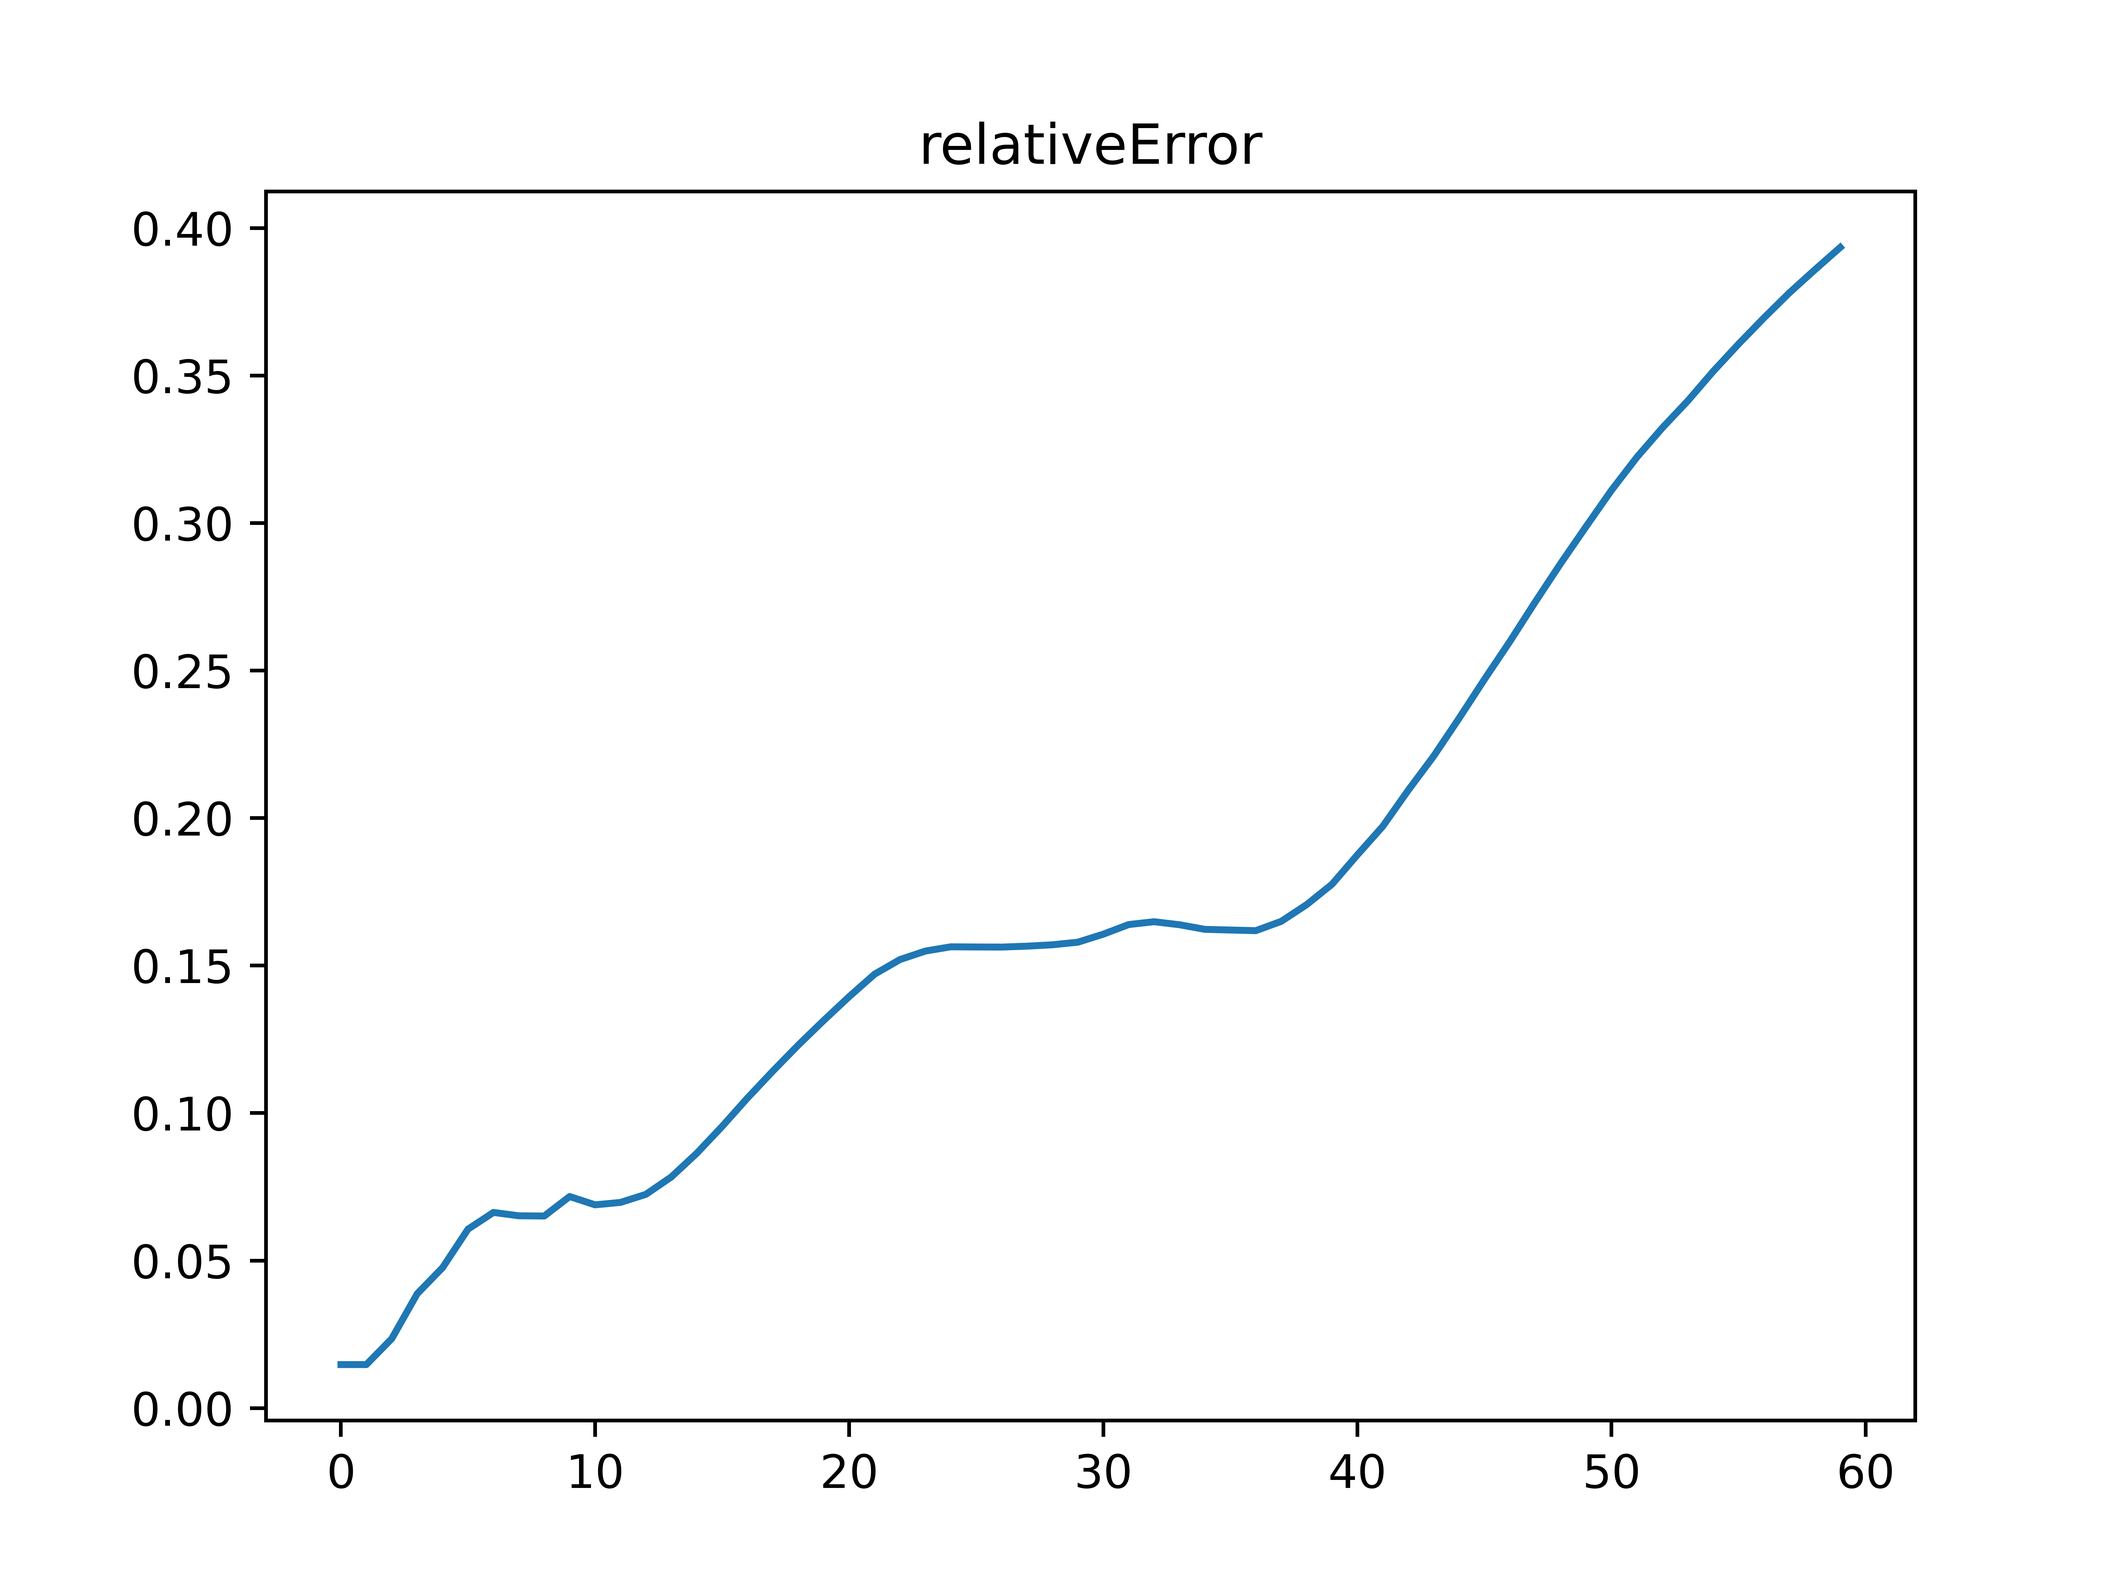
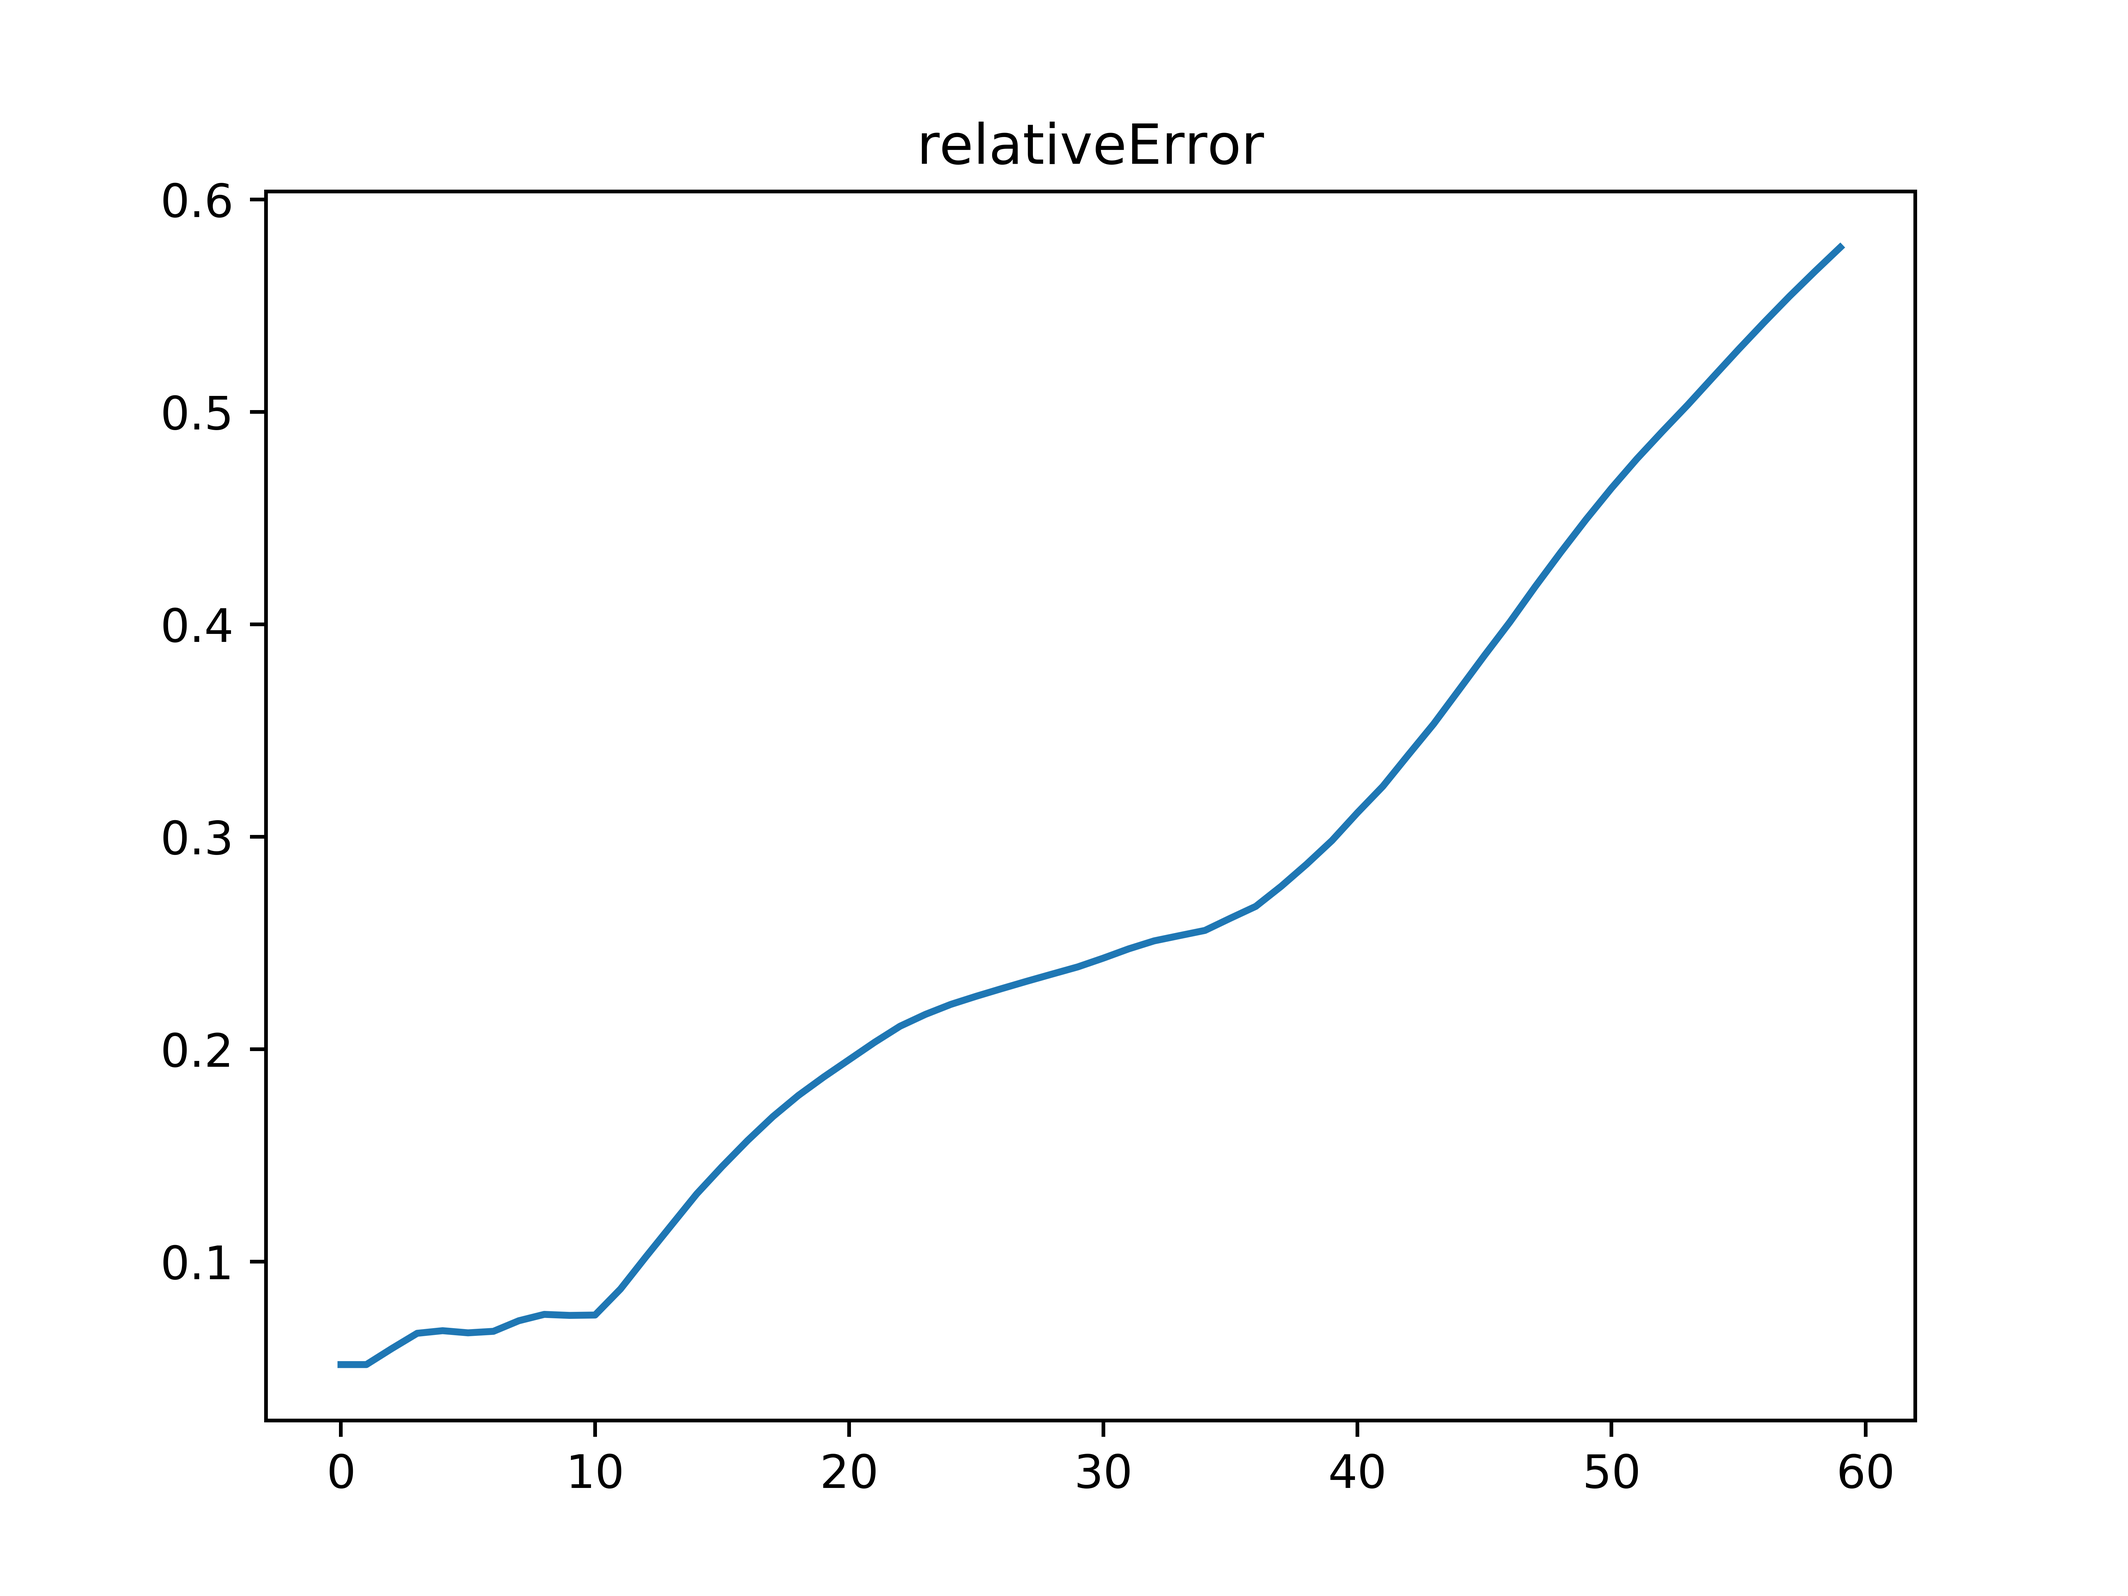
KNN算法K值的交叉验证。

diff --git a/Autoencoder/code/Main.py b/Autoencoder/code/Main.py
@@ -6,7 +6,8 @@ import random
 import pymysql as pymysql
 from scipy.interpolate import interp1d
 from nltk.cluster.kmeans import KMeansClusterer
-
+from sklearn.neighbors import KNeighborsClassifier
+from sklearn.model_selection import GridSearchCV
 import DTW
 from threading import Thread
 pymysql.install_as_MySQLdb()
@@ -30,7 +31,7 @@ from sklearn.neighbors import KNeighborsClassifier
 import math
 
 # 预测船舶主键ID,船舶MMSI，预测点时间
-ID = "32700834"
+ID = "38511417"
 GMMNum = 9  # GMM聚类个数
 MMSISelect = ""  # 存放目标船舶MMSI
 BaseDateTimeSelect = ""  # 存放初始点时间
@@ -185,8 +186,8 @@ def getTrajectory(S0, firstPoint):
         XStamp = []
         for h in range(len(X)):
             XStamp.append(int(X[h].to_pydatetime().timestamp()))
-        if (dateStamp[len(dateStamp) - 1] - dateStamp[0]) < 3600:
-            print("航迹持续时间小于60min，舍弃轨迹", i)
+        if (dateStamp[len(dateStamp) - 1] - dateStamp[0]) < 3000:
+            print("航迹持续时间小于50min，舍弃轨迹", i)
             continue
         if (max(np.diff(dateStamp))>600):
             print("轨迹存在相邻时间间隔大于10min，舍弃轨迹",i)
@@ -247,11 +248,11 @@ def clusterKmeans(backTrajectory, forwardTrajectory, backSelect, forwardSelect):
     #         trajectorySingle.extend(trajectory[i][j][2:])
     #     trajectoryChain.append(trajectorySingle)
     # 数据标准化
-    trajectoryChainStand = StandardScaler().fit_transform(trajectoryChain)
-    pca = PCA(n_components= 24)
-    trajectoryChainPCA = pca.fit_transform(trajectoryChain)
+    # trajectoryChainStand = StandardScaler().fit_transform(trajectoryChain)
+    # pca = PCA(n_components= 24)
+    # trajectoryChainPCA = pca.fit_transform(trajectoryChain)
+    eps = 5
     COGS = []
-    eps = 0.05
     for i in SOGANDCOG:
         COGS.append(i[1::2])
     COGSStand = StandardScaler().fit_transform(COGS)
@@ -275,9 +276,26 @@ def clusterKmeans(backTrajectory, forwardTrajectory, backSelect, forwardSelect):
     result = np.triu(result)
     result += result.T-np.diag(result.diagonal())
     end1 = time.time()
-    print("测试用时：",end1-bgin1)
+    print("计算相似性矩阵用时：",end1-bgin1)
     begin = time.time()
-    label = DBSCAN(min_samples=5, eps=eps, leaf_size=1000, metric=DBSCANDistance).fit_predict(trajectoryChain)
+    # 构建空列表，用于保存不同参数组合下的结果
+    res = []
+    for eps in np.arange(1,100,1):
+        # 迭代不同的min_samples值
+        for min_samples in range(2, 10):
+            dbscan = DBSCAN(min_samples=min_samples, eps=eps, leaf_size=1000, metric='precomputed')
+            label = dbscan.fit(np.array(result))
+            # 统计各参数组合下的聚类个数（-1表示异常点）
+            n_clusters = len([i for i in set(dbscan.labels_) if i != -1])
+            # 异常点的个数
+            outliners = np.sum(np.where(dbscan.labels_ == -1, 1, 0))
+            # 统计每个簇的样本个数
+            stats = str(pd.Series([i for i in dbscan.labels_ if i != -1]).value_counts().values)
+            res.append({'eps': eps, 'min_samples': min_samples, 'n_clusters': n_clusters, 'outliners': outliners,
+                        'stats': stats})
+        print("eps：",eps,"结束")
+    df = pd.DataFrame(res)
+    label = DBSCAN(min_samples=6, eps=72, leaf_size=1000, metric='precomputed').fit_predict(np.array(result))
     end = time.time()
     print("聚类用时：",end-begin)
     print("聚类类别：",label)
@@ -297,14 +315,14 @@ def clusterKmeans(backTrajectory, forwardTrajectory, backSelect, forwardSelect):
         trajectoryLabel.append(list(trajectoryChain[i] + [[label[i]]]))
         backTrajectoryLabel.append(list(backTrajectory[i] + [[label[i]]]))
         forwardTrajectoryLabel.append(list(forwardTrajectory[i] + [[label[i]]]))
-    trajectoryLabel = np.array(trajectoryLabel)
+    # trajectoryLabel = np.array(trajectoryLabel)
     # ===========================展示聚类结果======================
     # for i in range(0,240,2):
     #     plt.scatter(trajectoryLabel[:,i+1],trajectoryLabel[:,i],c=sum(trajectoryLabel[:,240],[]),cmap=plt.cm.Spectral)
     for single in trajectoryLabel:
         # 不展示异常轨迹
-        if(single[len(single) - 1][0]==-1):
-            continue
+        # if(single[len(single) - 1][0]==-1):
+        #     continue
         c = num_to_color(single[len(single) - 1][0])
         plt.plot([single[2 * i + 1] for i in range(0, 120, 2)], [single[2 * i] for i in range(0, 120, 2)], color=c)
     if not os.path.exists(dirs):
@@ -320,16 +338,30 @@ def clusterKmeans(backTrajectory, forwardTrajectory, backSelect, forwardSelect):
 def clusterDistance(name,cogs,trajectoryChain,start,end):
     distanc = []
     distanc1 = []
+    a = 0.5
     for i in range(start,end,1):
         t1 = time.time()
         for x in range(i+1):
             distanc1.append(0)
         for j in range(i + 1, len(trajectoryChain)):
             sum = 0
-            for k in range(0, 120, 10):
-                # sum+=getPointDistance(trajectoryChain[i][k:k+2],trajectoryChain[j][k:k+2])
-                # sum += abs(angle(trajectoryChain[i][k:k + 2], trajectoryChain[j][k:k + 2]))
-                sum+=abs(cogs[i][k]-cogs[j][k])
+            for k in range(0, 240, 10):
+                # sum+= math.sqrt((trajectoryChain[i][k]-trajectoryChain[j][k])**2+(trajectoryChain[i][k+1]-trajectoryChain[j][k+1])**2)
+                disSOG = abs(angle(trajectoryChain[i][k:k + 2], trajectoryChain[j][k:k + 2]))*(10**5)
+                # sum+=abs(cogs[i][k]-cogs[j][k])/360*getPointDistance(trajectoryChain[i][2*k:2*k+2],trajectoryChain[j][2*k:2*k+2])
+                # d1 = math.sqrt((trajectoryChain[i][k]-trajectoryChain[j][k])**2+(trajectoryChain[i][k+1]-trajectoryChain[j][k+1])**2)
+                # d2 = math.sqrt((trajectoryChain[i][k+8]-trajectoryChain[j][k+8])**2+(trajectoryChain[i][k+9]-trajectoryChain[j][k+9])**2)
+                # b1 = math.sqrt((trajectoryChain[i][k+8]-trajectoryChain[i][k])**2+(trajectoryChain[i][k+9]-trajectoryChain[i][k+1])**2)
+                # b2 = math.sqrt((trajectoryChain[j][k+8]-trajectoryChain[j][k])**2+(trajectoryChain[j][k+9]-trajectoryChain[j][k+1])**2)
+                # Angle = abs((cogs[i][k]+cogs[i][k+8])/2-(cogs[j][k]+cogs[j][k+8])/2)
+                # if Angle>math.pi/2:
+                #     Angle = math.pi/2
+                # sum+=abs(cogs[i][k]-cogs[j][k])*math.sqrt((trajectoryChain[i][k]-trajectoryChain[j][k])**2+(trajectoryChain[i][k+1]-trajectoryChain[j][k+1])**2)
+                # sum+=abs(cogs[i][k]-cogs[j][k])*a+(1-a)*math.sqrt((trajectoryChain[i][k]-trajectoryChain[j][k])**2+(trajectoryChain[i][k+1]-trajectoryChain[j][k+1])**2)
+                # sum+= d1+d2+(b1*math.sin(Angle)+b2*math.sin(Angle))/2
+                # sum+=abs(cogs[i][k]-cogs[j][k])
+                dis = abs(trajectoryChain[i][k]-trajectoryChain[j][k])+abs(trajectoryChain[i][k+1]-trajectoryChain[j][k+1])*(10**2)
+                sum+=disSOG*0.6 + dis*0.4
             distanc1.append(sum)
         distanc.append(distanc1)
         distanc1=[]
@@ -352,7 +384,7 @@ def classifyKNN(backTrajectoryLabel1, backSelect):
         backCopy.append(sum(single, []))
     for single in backSelect:
         selectCopy += single[2:4]
-    k = 40
+    k = KNNvalidation(dataSet=backCopy,label=label)
     begin = time.time()
     print("开始分类时间：", begin)
     # clf = KNeighborsClassifier(n_neighbors=k,metric=getPointDistanceTrajectoryBack,n_jobs=-1)
@@ -364,6 +396,16 @@ def classifyKNN(backTrajectoryLabel1, backSelect):
     print("=================KNN分类完成=================")
     return kind
 
+# 交叉验证KNN分类时K值的大小
+def KNNvalidation(dataSet,label):
+    parameters = {'n_neighbors':range(1,21)}
+    knn = KNeighborsClassifier()  # 注意：这里不用指定参数
+    # 通过GridSearchCV来搜索最好的K值。这个模块的内部其实就是对每一个K值进行评估
+    clf = GridSearchCV(knn, parameters, cv=5)  # 5折
+    clf.fit(dataSet, label)
+    # 输出最好的参数以及对应的准确率
+    print("最终最佳准确率：%.2f" % clf.best_score_, "最终的最佳K值", clf.best_params_)
+    return clf.best_params_['n_neighbors']
 
 # 计算backTrajectory与backSelect的距离，根据权重和forwardTrajectory预测目标船舶将来的航迹
 def getPredict(backTrajectoryLabel1, forwardTrajectoryLabel1, backSelect1, label, forwardSelect1, firstPoint,
@@ -555,7 +597,7 @@ def classify(input, dataSet, label, k):
     for single in dataSet:
         dist.append(getDistanceClassfiy(single,input))
     ##对距离进行排序
-    sortedDistIndex = np.argsort(dist)  ##argsort()根据元素的值从大到小对元素进行排序，返回下标
+    sortedDistIndex = np.argsort(dist)  ##argsort()根据元素的值从小到大对元素进行排序，返回下标
     classCount = {}
     for i in range(k):
         voteLabel = label[sortedDistIndex[i]]
@@ -683,7 +725,6 @@ def DBSCANDistance(A,B):
     sum = 0
     for a,b in zip(np.array(A).reshape(120,2),np.array(B).reshape(120,2)):
         sum+=(a[0]-b[0])**2
-    print("计算一次度量")
     return sum
 
 def out():

diff --git a/Autoencoder/RNN/LSTM_example.py b/Autoencoder/RNN/LSTM_example.py
@@ -7,6 +7,7 @@ import  pandas as pd
 import  os
 from keras.models import Sequential, load_model
 from sklearn.preprocessing import MinMaxScaler
+import numpy as np
 
 dataframe = pd.read_csv('./ads.csv', usecols=[1], engine='python', skipfooter=0)
 dataset = dataframe.values
@@ -29,8 +30,8 @@ def create_dataset(dataset, look_back):
         dataX.append(a)
         dataY.append(dataset[i + look_back])
     return numpy.array(dataX),numpy.array(dataY)
-#训练数据太少 look_back并不能过大
-look_back = 1
+# 训练数据太少 look_back并不能过大,即利用前多少个预测下一个数值
+look_back = 10
 trainX,trainY  = create_dataset(trainlist,look_back)
 testX,testY = create_dataset(testlist,look_back)
 
@@ -39,24 +40,34 @@ testX,testY = create_dataset(testlist,look_back)
 
 # create and fit the LSTM network
 model = Sequential()
-model.add(LSTM(4, input_shape=(None,1)))
-model.add(Dense(1))
+model.add(LSTM(1, input_shape=(None,1),return_sequences=False))
+# model.add(Dense(1))
 model.compile(loss='mean_squared_error', optimizer='adam')
 model.fit(trainX, trainY, epochs=100, batch_size=1, verbose=2)
 model.save(os.path.join("Test" + ".h5"))
 # make predictions
-#model = load_model(os.path.join("DATA","Test" + ".h5"))
-trainPredict = model.predict(trainX)
+# model = load_model(os.path.join("DATA","Test" + ".h5"))
+trainPredict = []
+testPredict = []
+trainX1 = trainX[0]
+for i in range(len(trainX)-5):
+    trainPredict.append(model.predict(np.array([trainX1]))[0])
+    trainX1 = trainX1[1:]
+    trainX1 = np.insert(trainX1,[look_back-1],trainPredict[-1],axis=0)
+trainPredict = np.array(trainPredict)
+trainPredictOnePoint = model.predict(trainX)
 testPredict = model.predict(testX)
 
-#反归一化
+# 反归一化
 trainPredict = scaler.inverse_transform(trainPredict)
 trainY = scaler.inverse_transform(trainY)
+trainPredictOnePoint = scaler.inverse_transform(trainPredictOnePoint)
 testPredict = scaler.inverse_transform(testPredict)
 testY = scaler.inverse_transform(testY)
 
-plt.plot(trainY,color = 'green')#绿色是真实数据
-plt.plot(trainPredict[1:],color = 'red')#红色是预测数据
+plt.plot(trainY,color = 'green') # 绿色是真实数据
+plt.plot(trainPredictOnePoint,color = 'orange')
+plt.plot(trainPredict[1:],color = 'red') # 红色是预测数据
 plt.title('train_set')
 plt.show()
 plt.savefig('训练.png')

diff --git a/test.py b/test.py
@@ -1,7 +1,31 @@
+# 读入第三方包
+from sklearn import preprocessing
+import pandas as pd
 import numpy as np
-a = np.array([[0,2,3],[0,0,4],[0,0,0]])
-b = [3,4]
-c = [5,6]
-a = np.triu(a)
-a+=a.T-np.diag(a.diagonal())
-print(a)
+from sklearn.cluster import DBSCAN
+# 选取建模的变量
+predictors = ['Birth_Rate','Death_Rate']
+# 变量的标准化处理
+X = preprocessing.scale(Province[predictors])
+X = pd.DataFrame(X)
+# 构建空列表，用于保存不同参数组合下的结果
+res = []
+# 迭代不同的eps值
+for eps in np.arange(0.001,1,0.05):
+    # 迭代不同的min_samples值
+    for min_samples in range(2,10):
+        dbscan = DBSCAN(eps = eps, min_samples = min_samples)
+        # 模型拟合
+        dbscan.fit(X)
+        # 统计各参数组合下的聚类个数（-1表示异常点）
+        n_clusters = len([i for i in set(dbscan.labels_) if i != -1])
+        # 异常点的个数
+        outliners = np.sum(np.where(dbscan.labels_ == -1, 1,0))
+        # 统计每个簇的样本个数
+        stats = str(pd.Series([i for i in dbscan.labels_ if i != -1]).value_counts().values)
+        res.append({'eps':eps,'min_samples':min_samples,'n_clusters':n_clusters,'outliners':outliners,'stats':stats})
+# 将迭代后的结果存储到数据框中
+df = pd.DataFrame(res)
+
+# 根据条件筛选合理的参数组合
+df.loc[df.n_clusters == 3, :]

diff --git a/Autoencoder/code/KNNvalidation.py b/Autoencoder/code/KNNvalidation.py
@@ -1,0 +1,20 @@
+from sklearn import datasets
+from sklearn.neighbors import KNeighborsClassifier
+from sklearn.model_selection import GridSearchCV  #通过网络方式来获取参数
+import numpy
+# 导入iris数据集
+iris2=datasets.load_iris()
+X2=iris2.data
+y2=iris2.target
+print(X2.shape,y2.shape)
+
+# 设置需要搜索的K值，'n_neightbors'是sklearn中KNN的参数
+parameters={'n_neighbors':[1,3,5,7,9,11,13,15]}
+knn=KNeighborsClassifier()#注意：这里不用指定参数
+
+# 通过GridSearchCV来搜索最好的K值。这个模块的内部其实就是对每一个K值进行评估
+clf=GridSearchCV(knn,parameters,cv=5)  #5折
+clf.fit(X2,y2)
+
+# 输出最好的参数以及对应的准确率
+print("最终最佳准确率：%.2f"%clf.best_score_,"最终的最佳K值",clf.best_params_)
